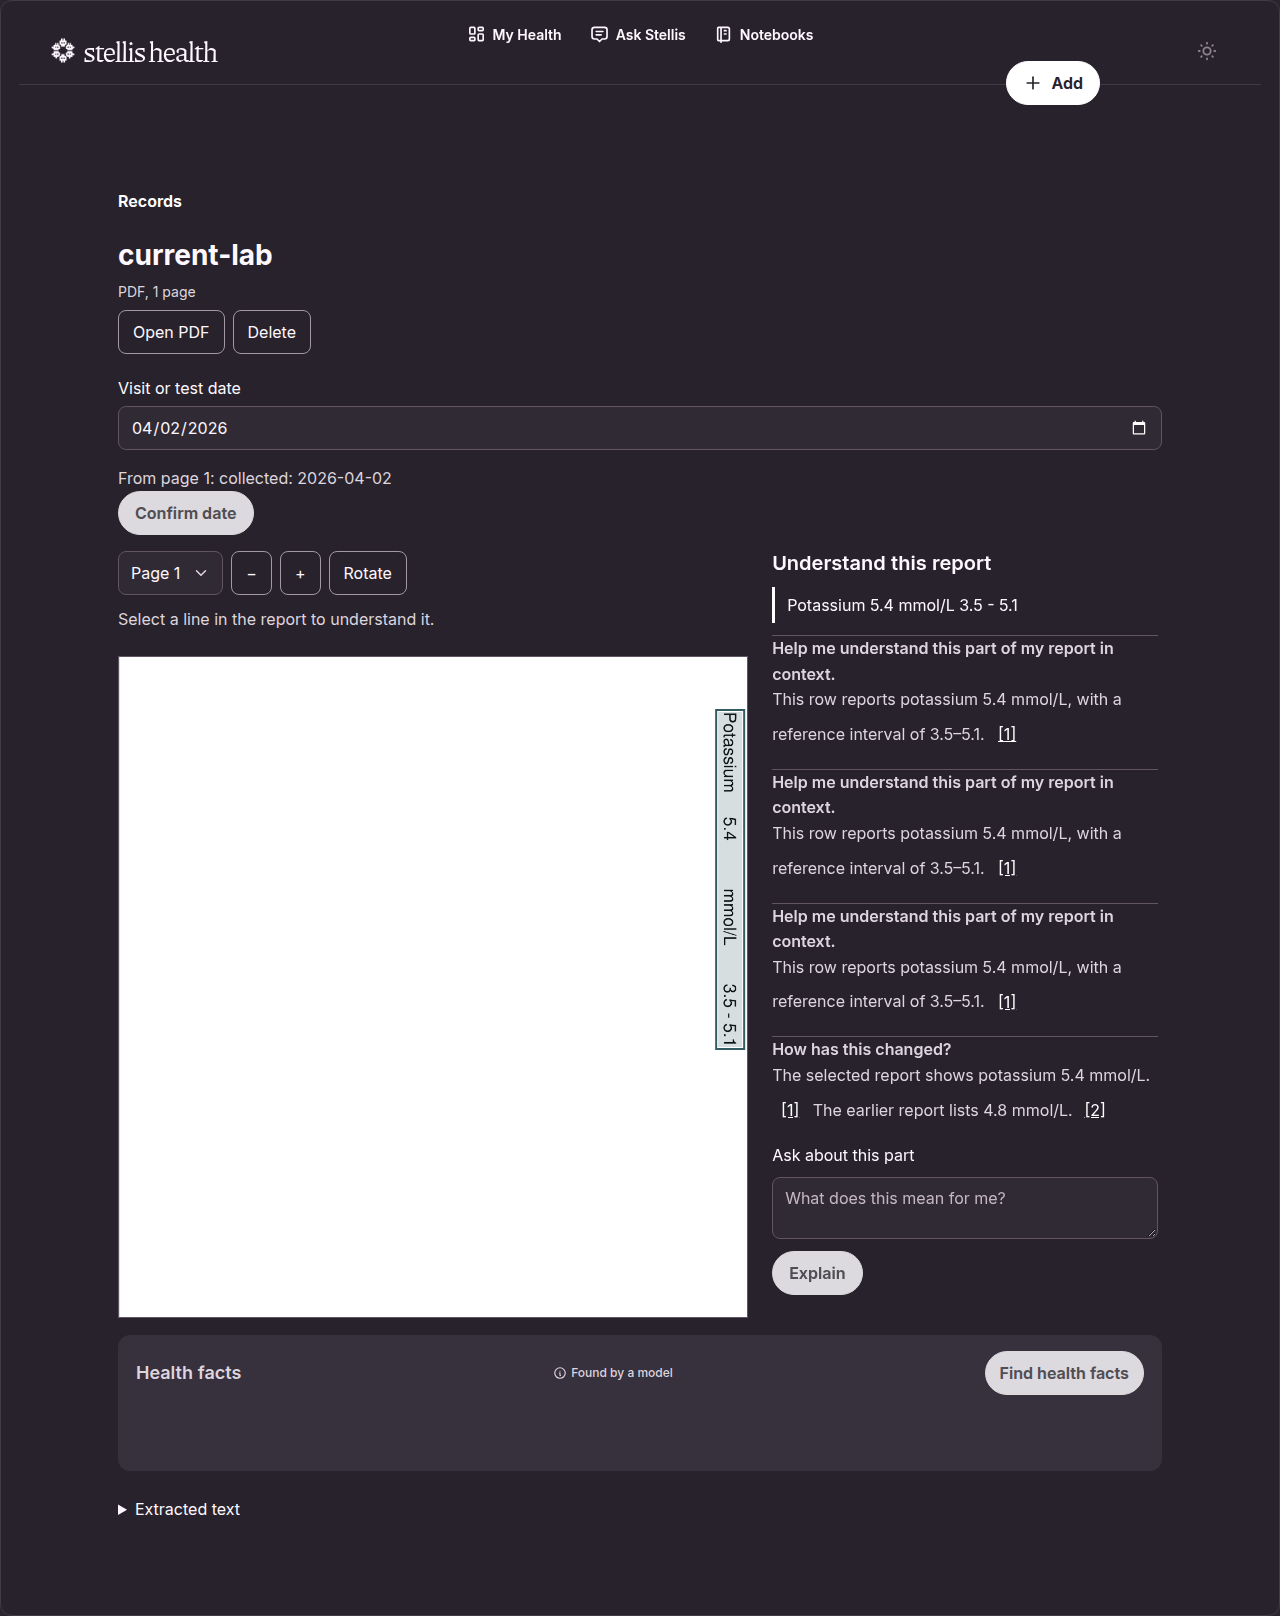
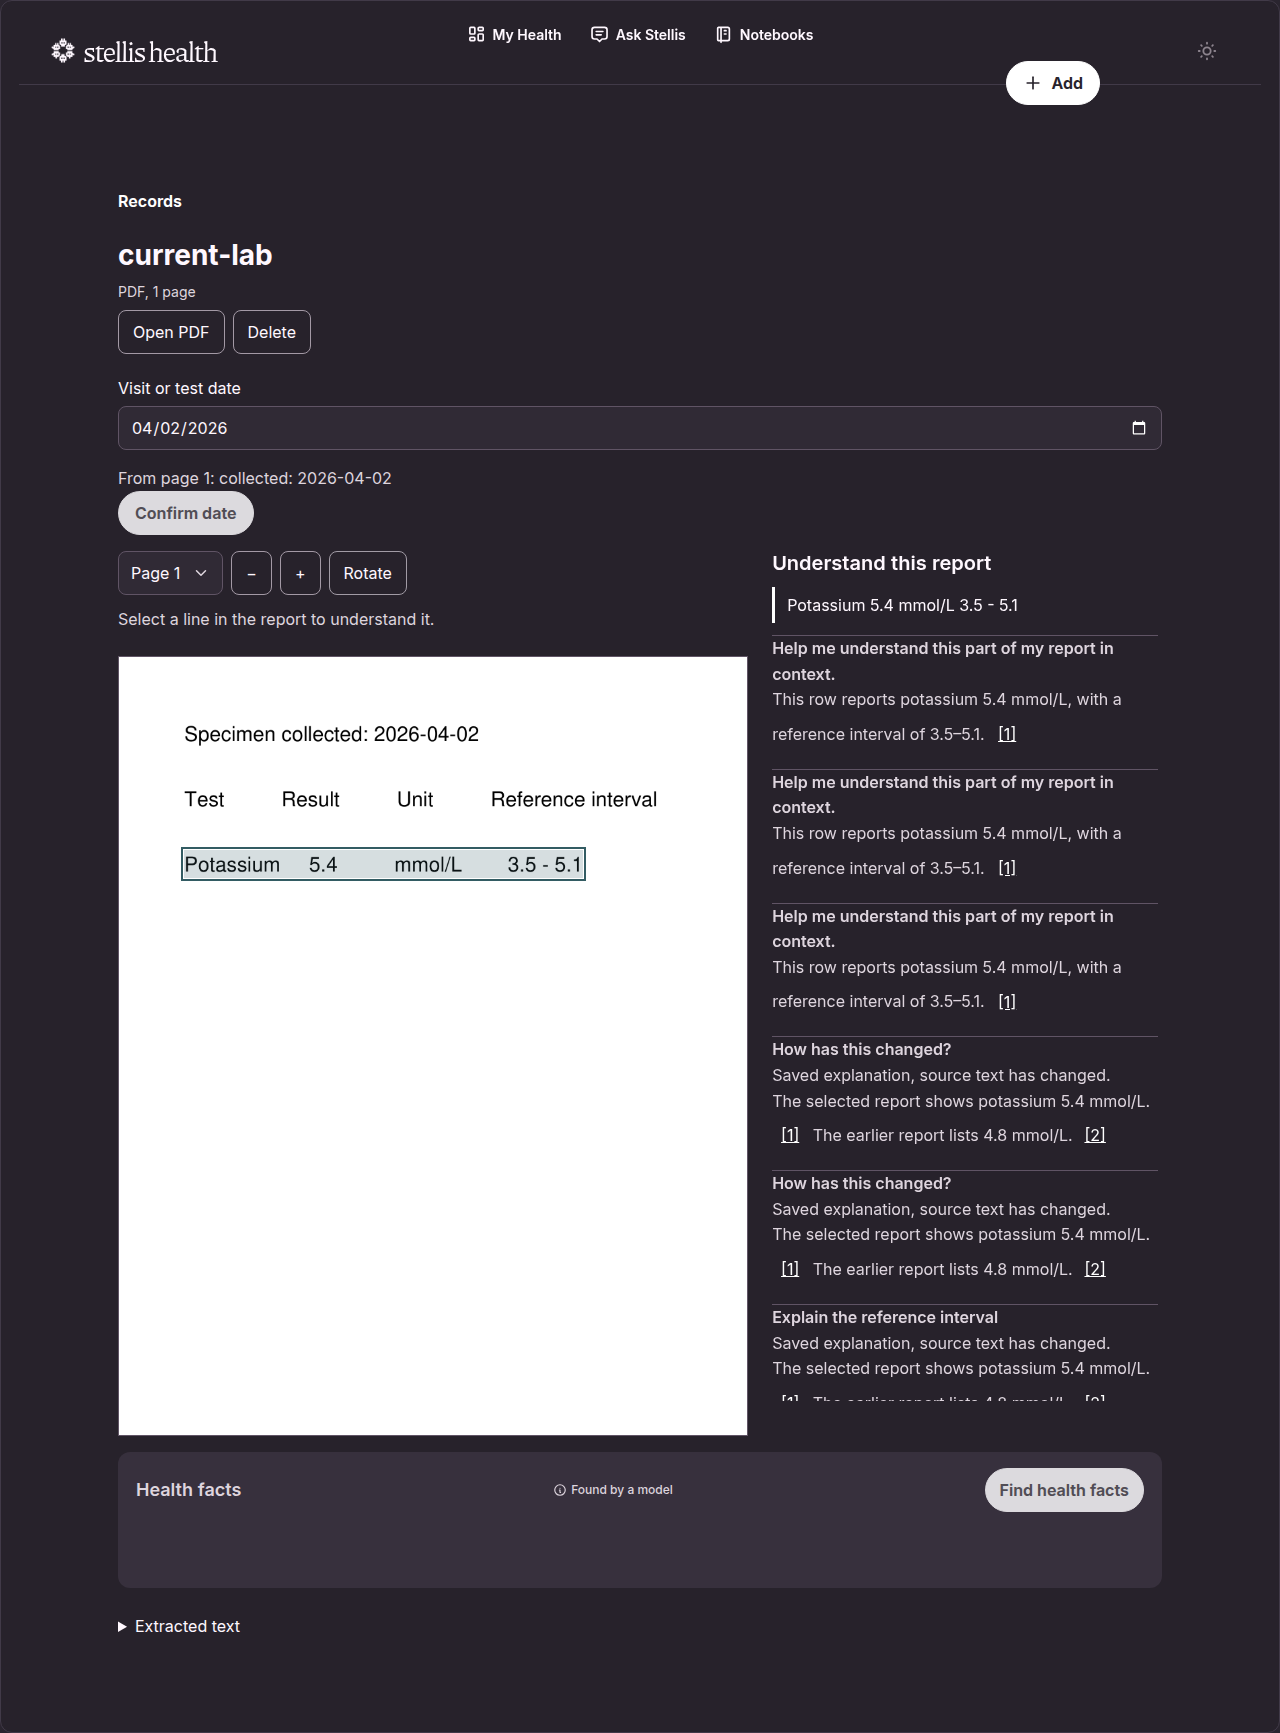
fix(reports): wait for original page before enabling source selection

diff --git a/src/stellis/static/report-context.js b/src/stellis/static/report-context.js
@@ -94,6 +94,7 @@ function mount(host, record, initialPage) {
   }
   async function load(wantedMap = null, wantedRegion = null) {
     const current = ++serial;
+    overlay.inert = true;
     map = null; region = null; buttons.clear(); overlay.replaceChildren(); messages.replaceChildren();
     selected.textContent = 'Select part of your report.'; send.disabled = true;
     status.textContent = 'Opening report…'; retry.hidden = true;
@@ -148,7 +149,7 @@ function mount(host, record, initialPage) {
     } catch (error) { explainStatus.textContent = error.message; }
     finally { busy = false; send.disabled = !region || !configured; }
   });
-  image.addEventListener('load', size);
+  image.addEventListener('load', () => { size(); overlay.inert = false; });
   pageSelect.addEventListener('change', () => {scale = 1; rotation = 0; size(); load();});
   retry.addEventListener('click', () => load());
   zoomOut.addEventListener('click', () => {scale = Math.max(1, scale-0.25); size();});

diff --git a/docs/evidence/148/README.md b/docs/evidence/148/README.md
@@ -13,7 +13,7 @@ The user explicitly clarified that sourcing information and understanding their 
 - Python tests cover real PDF geometry at 0/90/180/270 degrees, raster output, real scanned-image OCR geometry, account isolation, authentication, cache identity, map/document binding, source-backed history and follow-ups, invalid citation rejection, source edits during inference and deletion of related sources.
 - `tests/browser/report_context.mjs` exercises the full app with original PDFs and real SQLite: line selection, explanation, earlier-result citations, reload, source link navigation, zoom and rotation at 1280px and 390px, both themes, failed inference/retry and saved answers with AI unavailable. Screenshots here are from synthetic clinical records.
 - The browser fixture in `tests/browser/report_context_server.py` replaces only AI response generation and its configured flag. It is not a product entrypoint. Actual model/provider quality is unverified: this shell has neither AI credentials nor a configured gateway. Citation validation checks supplied source identities, not clinical entailment.
-- Related regressions cover documents, OCR, dates, notebook chat and chat attachments. Existing OCR text correction remains independently exercised by `tests/browser/document_ocr.mjs`.
+- The targeted Python run passed 66 tests and 11 subtests across report context, documents, OCR, dates, notebook chat and chat attachments. Existing OCR text correction is independently exercised by `tests/browser/document_ocr.mjs`.
 
 ## Reproduction
 
